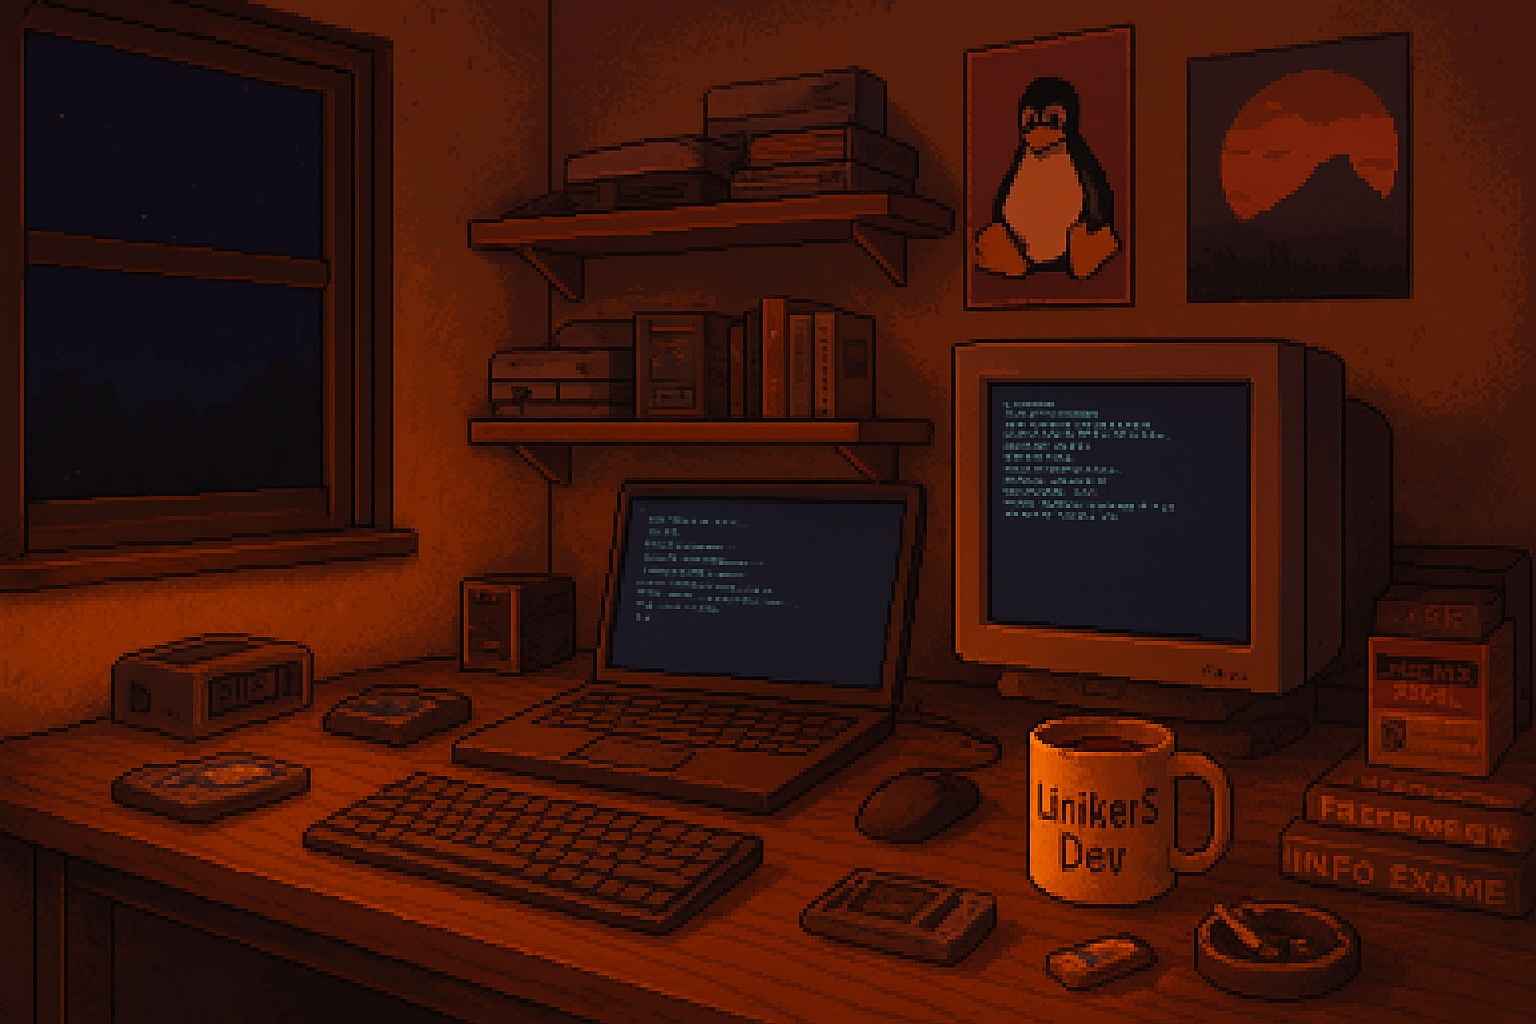
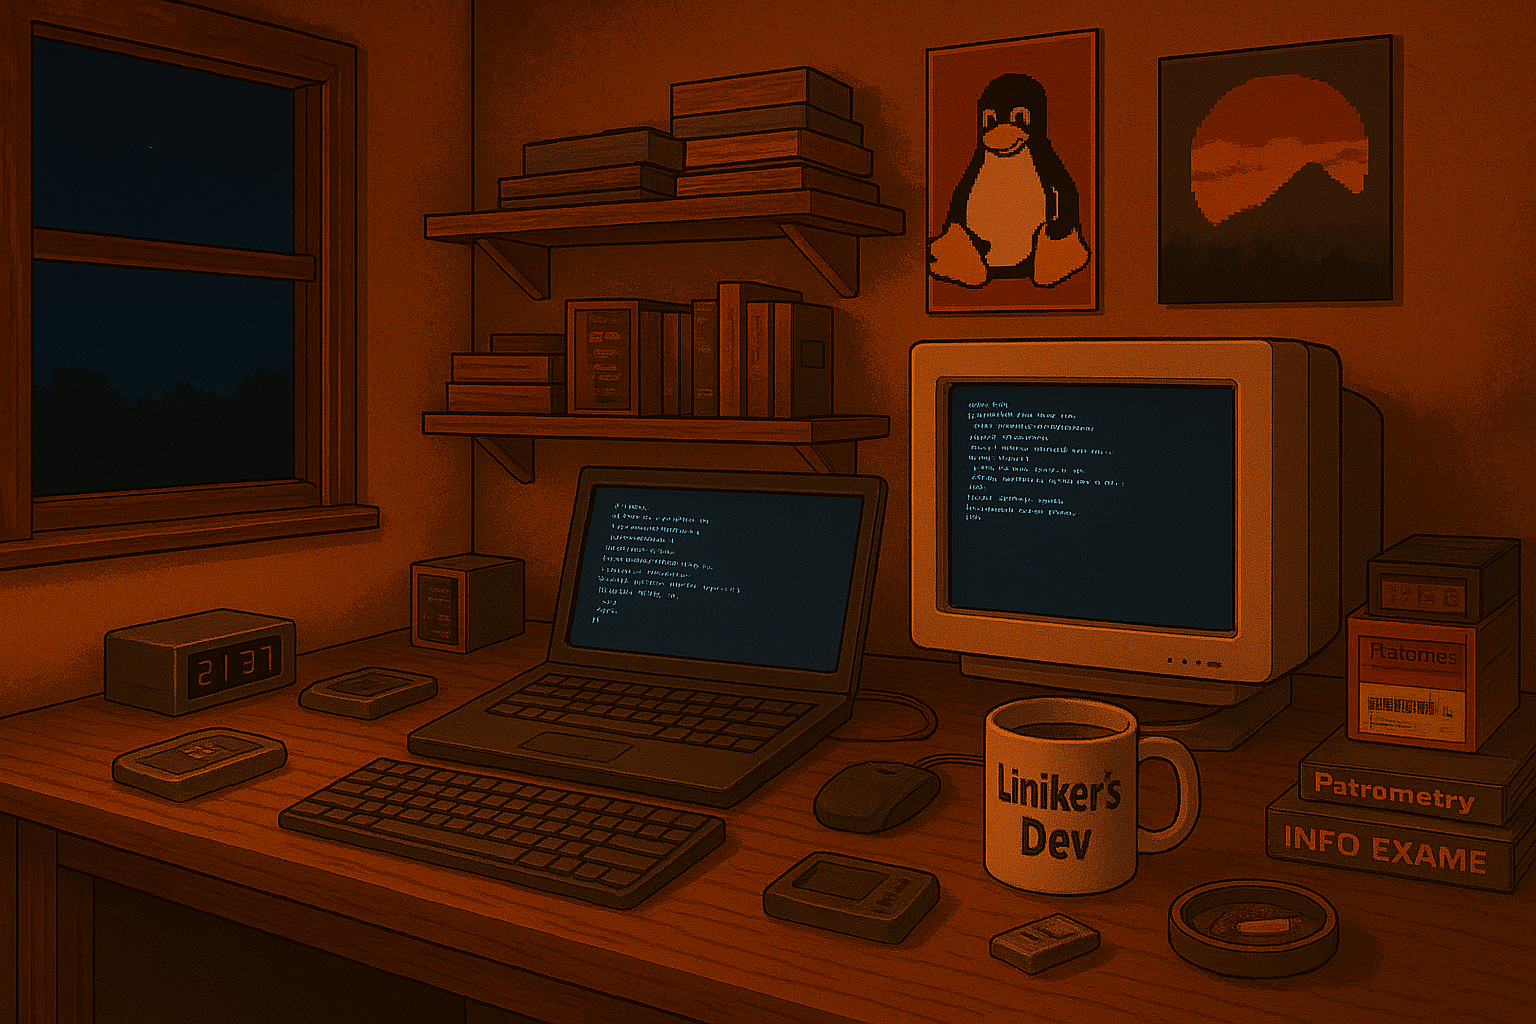
test img

diff --git a/linikers/src/pages/components/backgroundDesk/desk.module.css b/linikers/src/pages/components/backgroundDesk/desk.module.css
@@ -4,6 +4,18 @@
   height: 100vh;
   overflow: hidden;
   background-color: #000;
+  display: flex;
+  justify-content: center;
+  align-items: center;
+}
+
+.desk-container {
+  position: relative;
+  width: 100%;
+  height: 100%;
+  max-width: 1536px;
+  max-height: 1024px;
+  aspect-ratio: 1536 / 1024;
 }
 
 .desk-bg {
@@ -18,8 +30,10 @@
 .desk-image {
   width: 100%;
   height: 100%;
-  object-fit: cover; /* Garante que cubra a tela toda */
-  image-rendering: pixelated; /* CRÍTICO: Mantém a arte pixelada nítida */
+  max-width: 1536px;
+  max-height: 1024px;
+  object-fit: contain; /* Garante que a imagem inteira apareça sem cortes */
+  image-rendering: pixelated;
   image-rendering: -moz-crisp-edges;
   image-rendering: crisp-edges;
 }

diff --git a/linikers/src/pages/components/backgroundDesk/backgroundRoom.tsx b/linikers/src/pages/components/backgroundDesk/backgroundRoom.tsx
@@ -8,12 +8,23 @@ export default function BackgroundRoom() {
       animate={{ opacity: 1 }}
       transition={{ duration: 1.8, ease: "easeOut" }}
       className="backgroundRoom"
+      style={{
+        position: "relative",
+        width: "100%",
+        height: "100%",
+        // maxWidth: "1536px",
+        // maxHeight: "1024px",
+        margin: "0 auto",
+      }}
     >
       <Image
         src="/assets/bg-room.png"
         alt="room background"
         fill
-        style={{ objectFit: "cover" }}
+        style={{
+          objectFit: "contain",
+          imageRendering: "pixelated",
+        }}
         priority
       />
     </motion.div>

diff --git a/linikers/src/pages/components/animatedPage/bootTerminal.tsx b/linikers/src/pages/components/animatedPage/bootTerminal.tsx
@@ -1,11 +1,7 @@
 "use client";
 import { useEffect, useState } from "react";
 import { bootMessages } from "./bootSequence";
-// import "./src/pages/components/animatedPage/terminal.css";
-// import "./terminal.css";
 import styles from "./terminal.module.css";
-// import "./src/pages/components/backgroundDesk/Monitor/monitor.css";
-// import "./src/pages/components/backgroundDesk/Monitor/index.tsx";
 
 export default function BootTerminal({ onFinish }: { onFinish: () => void }) {
   const [currentIndex, setCurrentIndex] = useState(0);

diff --git a/linikers/src/pages/index.tsx b/linikers/src/pages/index.tsx
@@ -10,6 +10,10 @@ export default function Home() {
         width: "100vw",
         height: "100vh",
         overflow: "hidden",
+        display: "flex",
+        justifyContent: "center",
+        alignItems: "center",
+        backgroundColor: "#000",
       }}
     >
       <BackgroundRoom />

diff --git a/linikers/src/pages/components/backgroundDesk/backgroundDesk.tsx b/linikers/src/pages/components/backgroundDesk/backgroundDesk.tsx
@@ -9,8 +9,10 @@ export default function BackgroundDesk({
 }) {
   return (
     <div className={styles["desk-wrapper"]}>
-      <DeskImage />
-      {children}
+      <div className={styles["desk-container"]}>
+        <DeskImage />
+        {children}
+      </div>
     </div>
   );
 }
